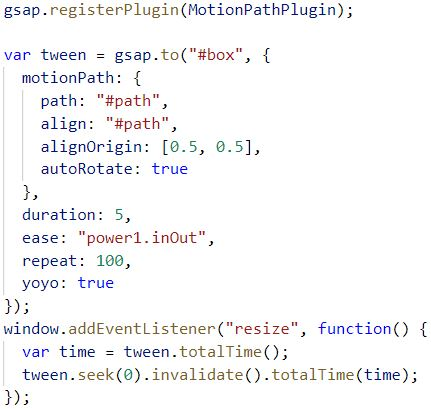
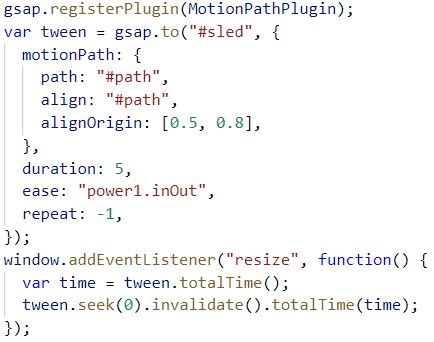
added another gsap example

diff --git a/index.htm b/index.htm
@@ -34,7 +34,7 @@
                 <ul>
                     <li>Draw attention</li>
                     <!-- our eyes are hardwired to look at moving objects, so we want to use it for whenever we are changing icons or text, and  -->
-                    <li>Tell a story</li>
+                    <li>Tell a story</li><!-- this can be a simple icon elaborating what it is trying to portray or a full cinematic animation, weather app showing rain or sun -->
                     <li>Guidance</li>
                     <!-- should feel natural - progress bars/spinning wheels tell you to wait, scrollspy is less jarring when moving around the site -->
                     <li>What can be animated?
@@ -52,8 +52,8 @@
                     <li>Rendering pipeline order:<br />
                         Style > Layout > Paint > Composite</li>
                     <!-- style calculates which styles apply to the elements
-                        layout generate geometry and position of each element
-                        paint fills out the pixels of each element in the layers that make out the page
+                        Layout generate geometry and position of each element
+                        Paint fills out the pixels of each element in the layers that make out the page
                         composite which draws the layers out on the screen
                         transofrm and opacity just have to be done on composite-->
                     <li>Use sparingly
@@ -101,13 +101,13 @@
                 </div>
                 <ul>
                     <li>Transforms
-                        <br>-<a href="https://css-transform.moro.es/" target="blank">example</a>
+                        <br>-<a href="https://css-transform.moro.es/" target="blank">transform generator</a>
                     </li><!-- scale | rotate | skew | translate -->
                     <li>Transitions
                         <!-- used when you want to toggle between two states, animation, hover, checked, etc -->
-                        <br>-<a href="https://cubic-bezier.com/" target="blank">timing function resource</a>
                     </li>
-                    <li>Animation - CSS Keyframes</li>
+                    <li>Animation - CSS Keyframes                        <br>-<a href="https://cubic-bezier.com/" target="blank">timing function resource</a>
+                    </li>
                     <!-- great for state based animations where you can repeat the states or you want a series of states -->
                     <!-- part of animation, either uses from/to or a percentage of how far along it is. If  -->
                 </ul>
@@ -138,7 +138,6 @@
                 <img src="images/cssanimation2.jpg" />
             </div>
             <div class="slide-content-right centered-content">
-                <!-- have this animation https://www.linkedin.com/learning/css-animation/chain-multiple-animations?u=76276188, try to reset it with a click -->
                 <div class="flipping-text-trigger">
                     <span>W</span>
                     <span>E</span>
@@ -154,7 +153,7 @@
             <h1>Animating SVGs - CSS</h1>
             <div class="slide-content">
                 <ul>
-                    <li>Why not GIFs/videos?
+                    <li>Why not GIFs?
                         <!-- same benefits of SVGs over jpg files; resolution independent, small file size, and accessible, apply styles to svg code instead of IMG tag -->
                     </li>
                     <li>Use independent shapes</li>
@@ -170,11 +169,10 @@
         </div>
         <div id="animatingSVGCSSExample" class="slide slide-full slide-two-column">
             <h1>Animating SVGs - Example</h1>
-            <div class="slide-content">
+            <div class="slide-content centered-content">
                 <img src="images/svganimation.jpg" />
             </div>
             <div class="slide-content-right centered-content">
-                <!-- have the battery fill animation here!!!!!!!!! -->
                 <svg xmlns="http://www.w3.org/2000/svg" xmlns:xlink="http://www.w3.org/1999/xlink" version="1.1"
                     id="Layer_1" x="0" y="0" viewBox="0 0 640 512" xml:space="preserve"
                     enable-background="new 0 0 640 512">
@@ -208,6 +206,30 @@
                 </ul>
             </div>
         </div>
+        <div id="GSAPBounce" class="slide slide-full slide-two-column">
+            <h1>Animating SVGs - Example</h1>
+            <div class="slide-content centered-content">
+                <img src="images/gsapBalls.jpg" />
+            </div>
+            <div class="slide-content-right centered-content">
+                <div class="nav">
+                    <button id="play">play()</button>
+                    <button id="pause">pause()</button>
+                    <button id="resume">resume()</button>
+                    <button id="reverse">reverse()</button>
+                    <button id="restart">restart()</button>
+                  </div>
+                                <div class="balls">
+                    <div></div>
+                    <div></div>
+                    <div></div>
+                    <div></div>
+                    <div></div>
+                    <div></div>
+                </div>
+                
+            </div>
+        </div>
         <div id="GSAPExample" class="slide slide-full slide-two-column">
             <h1>GSAP motion example</h1>
             <div class="slide-content">
@@ -228,7 +250,7 @@
             <h1>Animating with Lottie</h1>
             <div class="slide-content">
                 <ul>
-                    <li>After Effects -> Bodymoving Plugin -> JS Animation</li>
+                    <li>After Effects -> Bodymovin -> JSON</li>
                     <li>Allowing animators to make the animation
                         <br>-<a href="https://lottiefiles.com/" target="blank">example animations</a>
                         <br>-<a href="https://airbnb.io/lottie/#/supported-features" target="blank">Supported
@@ -249,7 +271,7 @@
                 <img src="images/lottie.jpg" />
             </div>
             <div class="slide-content-right centered-content">
-                <div id="lottieAnimation"></div>>
+                <div id="lottieAnimation"></div>
             </div>
         </div>
     </div>

diff --git a/js/scripts.js b/js/scripts.js
@@ -34,13 +34,19 @@ $(".toggle-animation").click(function() {
     $( this ).toggleClass( "flipping-text" );
   });
 
-  
+// ----- GSAP  example ----- 
+var tween = gsap.from(".balls div", {duration: 1, ease: "bounce", repeat: -1, y: "random(-300,-50)", stagger: 0.5})
+
+document.querySelector("#play").onclick = () => tween.play();
+document.querySelector("#pause").onclick = () => tween.pause();
+document.querySelector("#resume").onclick = () => tween.resume();
+document.querySelector("#reverse").onclick = () => tween.reverse();
+document.querySelector("#restart").onclick = () => tween.restart();
 
 // ----- GSAP MotionPath example ----- 
 //register the plugin (just once)
 gsap.registerPlugin(MotionPathPlugin);
-
-var tween = gsap.to("#sled", {
+var sled = gsap.to("#sled", {
   motionPath: {
     path: "#path",
     align: "#path",
@@ -48,16 +54,16 @@ var tween = gsap.to("#sled", {
   },
   duration: 5, 
   ease: "power1.inOut",
-  repeat: 100,
+  repeat: -1,
 });
 window.addEventListener("resize", function() {
-  var time = tween.totalTime();
-  tween.seek(0).invalidate().totalTime(time);
+  var time = sled.totalTime();
+  sled.seek(0).invalidate().totalTime(time);
 });
 
 
 // ----- Lottie example ----- 
-var animatoin = bodymovin.loadAnimation({
+var animation = bodymovin.loadAnimation({
     container: document.getElementById('lottieAnimation'),
     renderer: 'svg',
     loop: true,

diff --git a/css/styles.css b/css/styles.css
@@ -65,7 +65,7 @@ img {
 }
 
 .slide i.fas {
-  font-size: 300px;
+  font-size: 250px;
 }
 
 .slide a {
@@ -351,8 +351,8 @@ img {
 
 @media screen and (prefers-reduced-motion: reduce) {
   #cssAnimationExample #cssAnimation {
-    -webkit-animation: none;
-            animation: none;
+    -webkit-animation: none !important;
+            animation: none !important;
   }
 }
 
@@ -559,5 +559,25 @@ img {
   height: auto;
   -webkit-transform: scaleX(-1);
           transform: scaleX(-1);
+}
+
+.balls {
+  display: -webkit-box;
+  display: -ms-flexbox;
+  display: flex;
+  -webkit-box-orient: horizontal;
+  -webkit-box-direction: normal;
+      -ms-flex-flow: row nowrap;
+          flex-flow: row nowrap;
+  -webkit-transform: translateY(50px);
+          transform: translateY(50px);
+}
+
+.balls div {
+  width: 50px;
+  height: 50px;
+  margin: 25px;
+  background-color: purple;
+  border-radius: 25px;
 }
 /*# sourceMappingURL=styles.css.map */

diff --git a/css/styles.scss b/css/styles.scss
@@ -54,7 +54,7 @@ img {
         margin-bottom:15px;
     }
     i.fas {
-        font-size: 300px;
+        font-size: 250px;
     }
 
     a {
@@ -246,7 +246,7 @@ img {
 @media screen and (prefers-reduced-motion: reduce) {
     #cssAnimationExample {
         #cssAnimation {
-            animation: none;
+            animation: none !important;
         }
     }
 }
@@ -383,7 +383,7 @@ img {
     }
 }
 
-//GSAP example
+//GSAP examples
 #gsapMotionExample {
     #motionPath path {
         stroke-width: 2;
@@ -394,5 +394,18 @@ img {
         width: 100px;
         height: auto;
         transform: scaleX(-1);
+    }
+}
+
+.balls{
+    display:flex;
+    flex-flow: row nowrap;
+    transform: translateY(50px); 
+    div{
+        width:50px;
+        height:50px;
+        margin: 25px;
+        background-color:purple;
+        border-radius: 25px;
     }
 }
